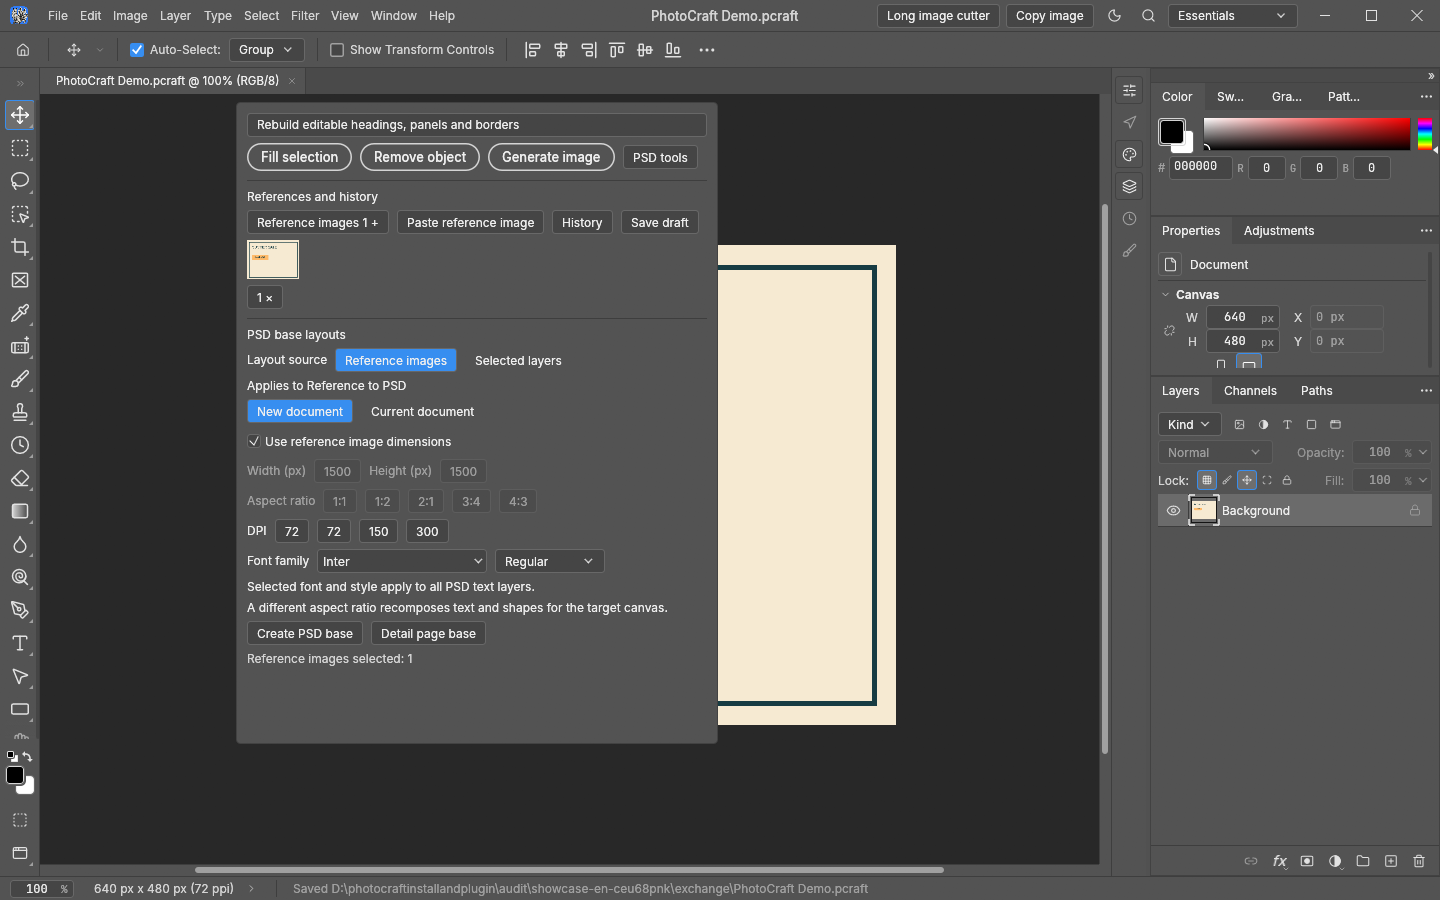
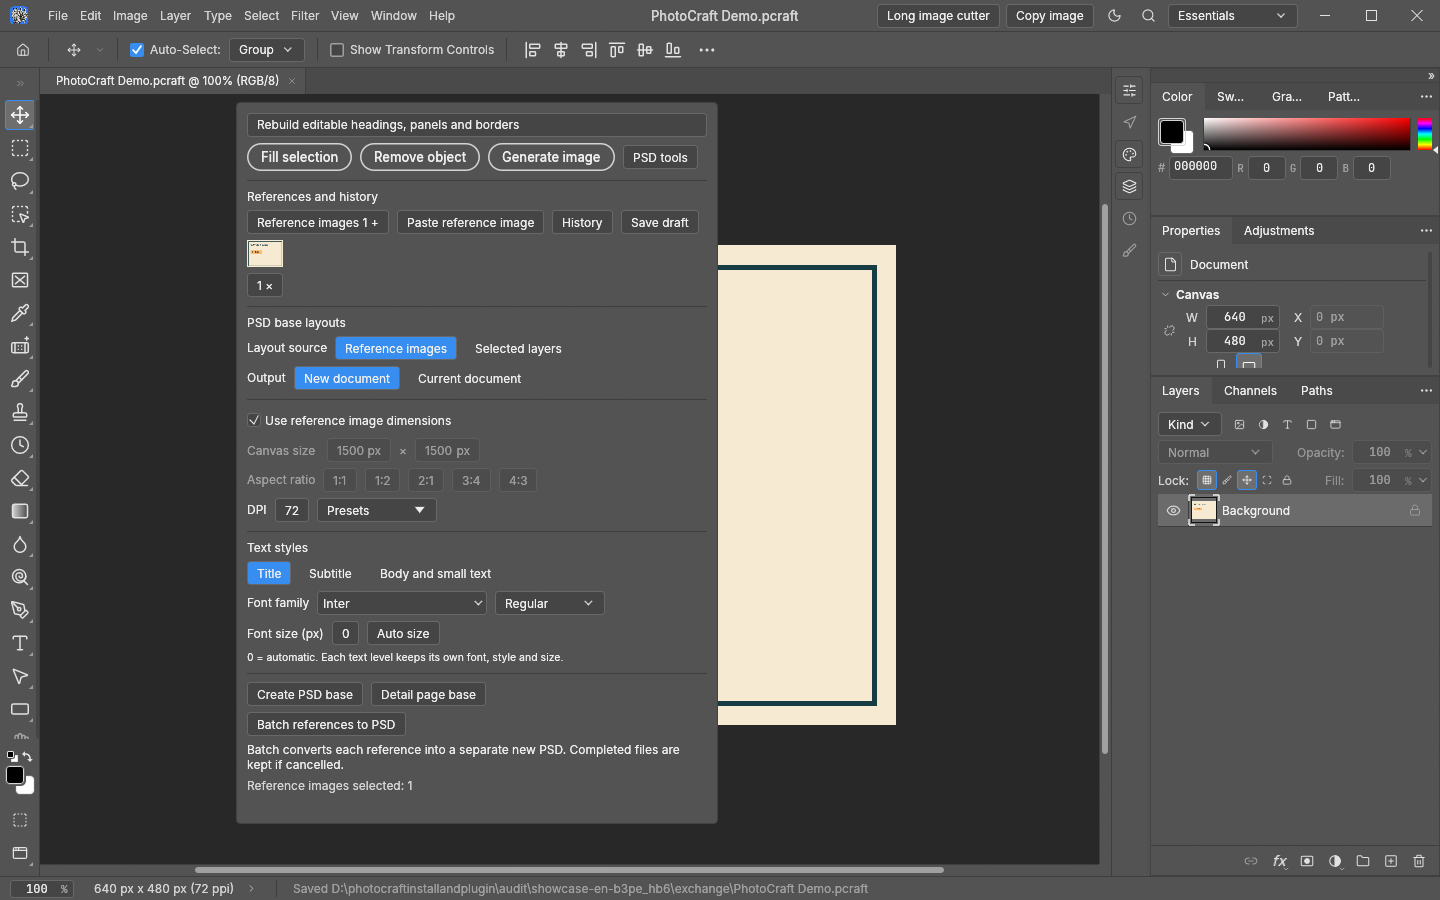
feat: independent title subtitle and body typography with cleaner PSD settings

Changed region(s): [[0.1562, 0.3422, 0.5, 0.9333], [0.1562, 0.2489, 0.2188, 0.3111], [0.4375, 0.9644, 0.4688, 0.9956]]

diff --git a/photocraft_ai/layout.py b/photocraft_ai/layout.py
@@ -12,9 +12,20 @@ from PIL import Image
 
 def validate_options(value=None):
     value = {} if value is None else value
-    if not isinstance(value, dict) or set(value)-{'reference_size','width','height','dpi','font','font_style','destination','source'}:
+    if not isinstance(value, dict) or set(value)-{'reference_size','width','height','dpi','font','font_style','destination','source','text_styles'}:
         raise ValueError('Invalid PSD settings')
-    result={'reference_size':True,'width':1500,'height':1500,'dpi':72,'font':'','font_style':'','destination':'new','source':'references',**value}
+    result={'reference_size':True,'width':1500,'height':1500,'dpi':72,'font':'','font_style':'','destination':'new','source':'references','text_styles':{},**value}
+    text_styles=result['text_styles']
+    if not isinstance(text_styles,dict) or set(text_styles)-{'title','subtitle','body'}:raise ValueError('Invalid text styles')
+    normalized={}
+    for role,style in text_styles.items():
+        if not isinstance(style,dict) or set(style)-{'font','font_style','size'}:raise ValueError('Invalid text style')
+        style={'font':'','font_style':'','size':0,**style}
+        for key in ('font','font_style'):
+            if not isinstance(style[key],str) or len(style[key])>200 or any(ord(c)<32 for c in style[key]):raise ValueError('Invalid text style font')
+        if type(style['size']) not in (int,float) or not math.isfinite(style['size']) or not 0<=style['size']<=1000:raise ValueError('Invalid text style size')
+        normalized[role]=style
+    result['text_styles']=normalized
     if result['source'] not in ('references','layers'):raise ValueError('Invalid PSD source')
     if result['destination'] not in ('new','current'):raise ValueError('Invalid PSD destination')
     if type(result['reference_size']) is not bool:raise ValueError('Invalid reference size setting')
@@ -42,7 +53,7 @@ def validate_layout(value):
     elements=value.get('elements')
     if not isinstance(elements,list) or not 1<=len(elements)<=(600 if long_page else 150):raise ValueError('Invalid layout elements')
     value={**value,'elements':[dict(e) if isinstance(e,dict) else e for e in elements]}
-    allowed={'kind','name','group','x','y','width','height','text','size','color','fill','stroke','stroke_width','radius','font','fontStyle','align','weight','points','closed'}
+    allowed={'kind','name','group','role','x','y','width','height','text','size','color','fill','stroke','stroke_width','radius','font','fontStyle','align','weight','points','closed'}
     for e in value['elements']:
         if not isinstance(e,dict):raise ValueError('Only editable text and shapes are supported')
         # Model responses may use the settings spelling; engine commands use fontStyle.
@@ -53,6 +64,7 @@ def validate_layout(value):
         unknown=set(e)-allowed
         if unknown:raise ValueError('Unsupported layout fields: '+', '.join(sorted(map(str,unknown))))
         if 'group' in e and (not isinstance(e['group'],str) or not e['group'].strip() or len(e['group'])>80):raise ValueError('Invalid layout group name')
+        if 'role' in e and e['role'] not in ('title','subtitle','body'):raise ValueError('Invalid text role')
         if e.get('kind') not in ('text','rect','ellipse','path'):raise ValueError('Only editable text and shapes are supported')
         for k in ['x','y','width','height','size','stroke_width','radius']:
             if k in e and (type(e[k]) not in (int,float) or abs(e[k])>(65536 if long_page else 16384) or not math.isfinite(e[k])):raise ValueError('Invalid layout coordinate')
@@ -99,6 +111,7 @@ User request (JSON string): '''+json.dumps(prompt,ensure_ascii=False)
         instruction+=f'\nOriginal reference: {image.width} x {image.height}. REQUIRED output canvas: {width} x {height} pixels. Recompose and reflow text, panels and borders for this target aspect ratio. Do not stretch the original design or leave an unused extension. Text size remains pixels (points at 72 DPI).'
     if options['font']:instruction+='\nUse this font family for all editable text: '+json.dumps(options['font'])
     if options['font_style']:instruction+='\nRequired font style for all text: '+json.dumps(options['font_style'])
+    instruction+='\nClassify every text element with role=title|subtitle|body. Role-specific settings override global fonts. A size of 0 means infer it from the reference; nonzero size is required pixel size. Reflow line breaks to fit these sizes. Role-specific settings: '+json.dumps(options['text_styles'],ensure_ascii=False)
     if long_page:
         instruction=instruction.replace('Maximum 150 elements, dimensions <=8192','Maximum 600 elements, width <=8192, height <=30000')
         instruction+='\nThis is a long e-commerce detail page. Optimize the visual hierarchy, typography, section spacing and consistency. Preserve factual wording; do not invent specifications or certifications. Exclude all product/photo content, leaving its area blank. Keep the full vertical section order and all useful headings and labels, not just the first screen. Additional numbered crops are consecutive vertical windows of reference 1, not separate designs. Use absolute coordinates in the full target canvas.'
@@ -142,15 +155,25 @@ User request (JSON string): '''+json.dumps(prompt,ensure_ascii=False)
     value=validate_layout(decoded)
     if (value['width'],value['height'])!=(width,height):raise ValueError('Layout returned the wrong target dimensions; result retained for inspection')
     value['dpi']=options['dpi']
-    if options['font']:
-        for element in value['elements']:
-            if element['kind']=='text':
-                element['font']=options['font']
-                if options['font_style']:
-                    element['fontStyle']=options['font_style']
-                    element.pop('weight',None)
+    value=apply_text_styles(value,options)
     path=job/'layout.json';path.write_text(json.dumps(value,ensure_ascii=False,indent=2),encoding='utf-8')
     return path
+
+
+def apply_text_styles(value,options):
+    maximum=max((e.get('size',24) for e in value['elements'] if e['kind']=='text'),default=24)
+    for element in value['elements']:
+        if element['kind']!='text':continue
+        size=element.get('size',24)
+        role=element.get('role') or ('title' if size>=maximum*.8 else 'subtitle' if size>=maximum*.5 else 'body')
+        element['role']=role
+        style=options.get('text_styles',{}).get(role,{})
+        font=style.get('font') or options.get('font')
+        face=style.get('font_style') or options.get('font_style')
+        if font:element['font']=font
+        if face:element['fontStyle']=face;element.pop('weight',None)
+        if style.get('size',0)>0:element['size']=style['size']
+    return validate_layout(value)
 
 
 def major_groups(value):

diff --git a/tests/test_layout.py b/tests/test_layout.py
@@ -7,6 +7,20 @@ from photocraft_ai.bridge import PhotoCraftBridge
 
 
 class LayoutTests(unittest.TestCase):
+    def test_independent_text_fonts_styles_and_pixel_sizes(self):
+        from photocraft_ai.layout import apply_text_styles
+        options=validate_options({'font':'Inter','text_styles':{'title':{'font':'Arial','font_style':'Bold','size':72},'subtitle':{'font':'Georgia','font_style':'Italic','size':36},'body':{'font':'Calibri','font_style':'Regular','size':18}}})
+        value={'width':800,'height':800,'background':'#ffffff','elements':[{'kind':'text','role':role,'x':20,'y':100*(i+1),'text':role,'weight':900,'size':24} for i,role in enumerate(['title','subtitle','body'])]}
+        result=apply_text_styles(value,options)
+        self.assertEqual([(e['font'],e['fontStyle'],e['size']) for e in result['elements']],[('Arial','Bold',72),('Georgia','Italic',36),('Calibri','Regular',18)])
+        self.assertTrue(all('weight' not in e for e in result['elements']))
+
+    def test_text_style_validation_and_legacy_role_inference(self):
+        from photocraft_ai.layout import apply_text_styles
+        for style in [{'title':{'size':float('nan')}},{'body':{'size':True}},{'other':{}},{'title':{'font':'bad\nfont'}},{'body':{'size':1001}}]:
+            with self.assertRaises(ValueError):validate_options({'text_styles':style})
+        value={'width':800,'height':800,'background':'#ffffff','elements':[{'kind':'text','x':20,'y':100*(i+1),'text':'x','size':size} for i,size in enumerate([80,48,16])]}
+        self.assertEqual([e['role'] for e in apply_text_styles(value,validate_options())['elements']],['title','subtitle','body'])
     def test_major_groups_are_bounded_and_preserve_painting_order(self):
         from photocraft_ai.layout import major_groups
         value={'height':1000,'elements':[{'kind':'text','y':i,'group':f'Section {i}','text':'x'} for i in range(100)]}

diff --git a/docs/usage-en.md b/docs/usage-en.md
@@ -83,6 +83,10 @@ The geometric demo artwork was made for this project. Screenshots contain no use
 
 ## 6. Reference to PSD base layout
 
+**Text hierarchy styles**: switch between Title, Subtitle and Body and small text to choose an independent font family, weight/style and pixel size. `0` or Auto size lets the reference determine size. Pixel sizes remain consistent across DPI. All three styles persist separately and apply to single, long-page and batch layouts. New analyses label text roles; older layouts infer roles from relative font size. Review line wrapping and positions after specifying large sizes.
+
+Canvas fields show width × height; DPI shortcuts use Presets. An unsaved-project history notice does not block PSD creation.
+
 **Batch conversion**: attach multiple references, expand **PSD tools**, then choose **Batch references to PSD**. Each reference is analyzed independently into a new PSD; references are not merged and the current project is not modified. Font, dimensions and DPI follow the shared settings. Enable reference dimensions to retain each image's own size. Progress shows the current index and filename; failures do not stop later items, and cancellation retains completed files.
 
 Files are written to `runtime/exchange/batch-<job-id>/`, prefixed by index and original filename. `batch-report.json` records successes, errors and pending items. Each PSD keeps editable elements and named major groups. The regular Create PSD base action still uses multiple references to produce one layout.
@@ -99,7 +103,7 @@ The unified composer keeps the prompt, generation, references and history togeth
 
 Open **PSD settings** before generating. By default the reference dimensions are used. Turn off **Use reference image dimensions** to enter target pixel width and height, or use the 1:1, 1:2, 2:1, 3:4 and 4:3 shortcuts. For example, recompose a square reference into a **1500 × 3000** portrait base. Ratio shortcuts calculate height from the current width; both dimensions remain editable afterward.
 
-Set **DPI** from 36 to 1200, with 72/150/300 shortcuts. Pixel dimensions determine image size; DPI controls print density. **Font family** uses the Type tool's searchable dropdown, including previews, recent fonts and favorites. Choose an available style beside it, such as Regular, Bold or Italic. Initial settings follow the current Type tool font and style. All generated text uses your chosen font and style; text size still follows the generated layout. Missing fonts may be substituted.
+Set **DPI** from 36 to 1200, with 72/150/300 available under Presets. Pixel dimensions determine image size; DPI controls print density. **Font family** uses the Type tool's searchable dropdown with previews, recents and favorites. Choose a role first, then select its family, face/style and size. Unconfigured roles inherit the existing font defaults. Missing fonts may be substituted.
 
 A changed aspect ratio requests recomposition of text, shapes and borders. Review the resulting OCR and layout. Limits are 8192 pixels per side and 32 million pixels total. Settings persist locally and are included in history and drafts; restoring a record restores its settings too.
 

diff --git a/docs/usage-zh.md b/docs/usage-zh.md
@@ -85,6 +85,10 @@
 
 ## 6. 参考图转 PSD 底稿
 
+**分层级文字样式**：在“文字样式”中切换“标题”“副标题”“正文 / 小字”，分别选择字体家族、字重样式和字号。字号单位为像素，`0` 或“自动字号”表示根据参考图安排；不同 DPI 下仍保持目标像素大小。每套设置独立保存，单图、详情页和批量模式均使用。新分析会标注文字层级；旧版式数据缺少标注时按相对字号推断。指定大字号后请复核换行与位置。
+
+画布尺寸以“宽 × 高”显示，DPI 快捷值放在“预设”中。历史记录未保存工程时显示独立提示，不阻止 PSD 制作。
+
 **批量转 PSD**：一次添加多张参考图，在“PSD 底稿设置”中点击“批量参考图转 PSD”。每张图片独立分析并新建一个 PSD，不把多张图合成一份，也不写入当前工程。字体、尺寸、DPI 仍沿用本栏参数；勾选“使用参考图尺寸”可逐张保留原尺寸。进度显示当前张数和文件名，单张失败后继续，取消会保留已完成文件。
 
 结果存到 `runtime/exchange/batch-<任务ID>/`，PSD 名称带序号和原文件名；同目录 `batch-report.json` 记录每张图的成功、失败或待处理状态。每份 PSD 保留命名大组和可编辑元素。与普通“制作 PSD 底稿”（多参考图辅助生成一份）分别使用。
@@ -99,7 +103,7 @@
 
 生成前打开 **PSD 设置**：默认使用参考图尺寸。取消“使用参考图尺寸”后，可填写目标宽、高（像素），或选择 1:1、1:2、2:1、3:4、4:3 比例快捷键。例如将 1:1 参考图重排为 **1500 × 3000** 的 1:2 底稿。快捷键按当前宽度计算高度；之后可分别修改宽高。
 
-**DPI** 支持 36–1200，并提供 72、150、300 快捷值；像素宽高决定图片大小，DPI 决定打印密度。**字体名称** 使用与文字工具相同的可搜索下拉选择器，支持字体预览、最近使用和收藏；旁边可选择该字体提供的样式（如常规、粗体、斜体）。首次设置沿用文字工具当前字体和样式。所有文字使用所选字体和样式，字号仍随版式安排。缺失字体可能被系统替代。
+**DPI** 支持 36–1200，“预设”中提供 72、150、300；像素宽高决定图片大小，DPI 决定打印密度。**字体名称** 使用与文字工具相同的可搜索下拉选择器，支持预览、最近使用和收藏；旁边选择字体提供的样式（如常规、粗体、斜体）。先选择标题、副标题或正文，再为该层级设置字体、样式和字号；未单独配置的层级沿用原字体默认值。缺失字体可能被系统替代。
 
 更换比例会请求重新排版文字、形状和边框，仍需人工检查识别和排版结果。每边最多 8192 像素，总面积最多 3200 万像素。设置在本机保留；历史记录和草稿也保存这些参数，恢复时一并恢复。
 

diff --git a/VALIDATION.md b/VALIDATION.md
@@ -279,3 +279,7 @@ Native UI navigated All tools, PSD, Detail page and inline settings; assertions 
 ## Batch reference PSD conversion (2026-11-06)
 
 81 Python tests pass, including per-file isolation, failure continuation, cancellation retaining files and durable reports. Native batch button with two references creates two separate grouped PSDs. Actual five user JPGs processed sequentially into five named PSDs; all reopen at 1500x2000 with editable Type/Shape layers and bounded major groups. Original JPG hashes unchanged. Results remain in a new subfolder of the user-specified source folder; no user assets published. Desktop/clippy/wasm/layers pass. Batch polling scales with reference count and progress controls remain visible while processing new documents.
+
+## Text hierarchy styling and settings layout (2026-11-06)
+
+83 Python tests pass: role-specific fonts/styles/pixel sizes, validation, legacy size-based role inference. Native UI edits Title Arial/72px, Subtitle Georgia/36px, Body Calibri/18px independently and forwards all settings to the authenticated worker. Native PSD export/reopen at 300 DPI verifies independent family and pixel-size conversion; PSD font faces include Arial-BoldMT, Georgia-Italic and Calibri. Unified UI screenshot reviewed with visible creation buttons. Canvas controls compacted, DPI presets use native combo, unsaved history notice no longer reports a PSD error. Updated bilingual settings screenshots/GIFs; desktop/clippy/wasm/layers pass.

diff --git a/README.en.md b/README.en.md
@@ -47,6 +47,7 @@ Follow the prompt and reference, expand all PSD settings, create the base layout
 | Image/layer to PSD | Use attached references or selected layers; work in the current document or a new one |
 | Batch references to PSD | Convert each reference into its own PSD, with per-item progress and durable results/report |
 | Unified PSD settings | Font family/style, pixel dimensions, aspect ratio and DPI beside creation actions |
+| Title / subtitle / body styles | Independent family, weight/style and pixel size, with automatic sizing and batch support |
 | Named major groups | One root folder and at most eight section groups, collapsed by default; text and shapes stay editable |
 | Long detail-page bases | Read the entire page in crops and reconstruct copy, colors, shapes and borders; up to 30000 pixels tall and 32 million pixels total |
 | Cutting and clipboard export | Adjust cut lines, save JSON plans, export PNG ZIPs and copy the full canvas |

diff --git a/RELEASE_NOTES.md b/RELEASE_NOTES.md
@@ -1,5 +1,8 @@
 # Unreleased / 统一开发版新增
 
+- PSD 文字样式支持标题、副标题、正文/小字分别设置字体、字重和像素字号（0 为自动），支持历史与批量制作。优化宽高、DPI 预设和设置分区；未保存工程的历史提示不再误报为 PSD 错误。
+- Independent title/subtitle/body families, styles and pixel sizes (0 for automatic), including history/batch support. Cleaner canvas/DPI sections and a non-error notice for unsaved-project history.
+
 - 新增多参考图批量转 PSD：逐张分析、独立新建、按源文件命名并保留大组。支持逐张进度、失败继续、取消保留已完成文件及 JSON 清单。
 - Add Batch references to PSD: independent analysis and new files per reference, source-based names, major groups, per-item progress, failure continuation and durable cancellation reports.
 

diff --git a/README.md b/README.md
@@ -47,6 +47,7 @@
 | 图片或图层转 PSD | 参考图 / 选中图层；当前工程 / 新建文件 |
 | 多图批量转 PSD | 每张参考图独立生成 PSD，显示逐张进度，保留结果与处理清单 |
 | 单抽屉参数设置 | 字体家族与样式、像素宽高、比例、DPI，与制作按钮放在一起 |
+| 标题 / 副标题 / 正文 | 独立字体、粗细样式和像素字号，支持自动字号与批量应用 |
 | 命名大组 | 一个底稿总组、最多 8 个区块组，默认折叠，文字和形状仍可编辑 |
 | 详情页长图底稿 | 分段读取整页，重建文案、底色、形状和边框；最长 30000 像素、总面积 3200 万像素 |
 | 长图切割与剪贴板 | 调整切线、保存 JSON 方案、导出 PNG ZIP、直接复制完整画布 |
